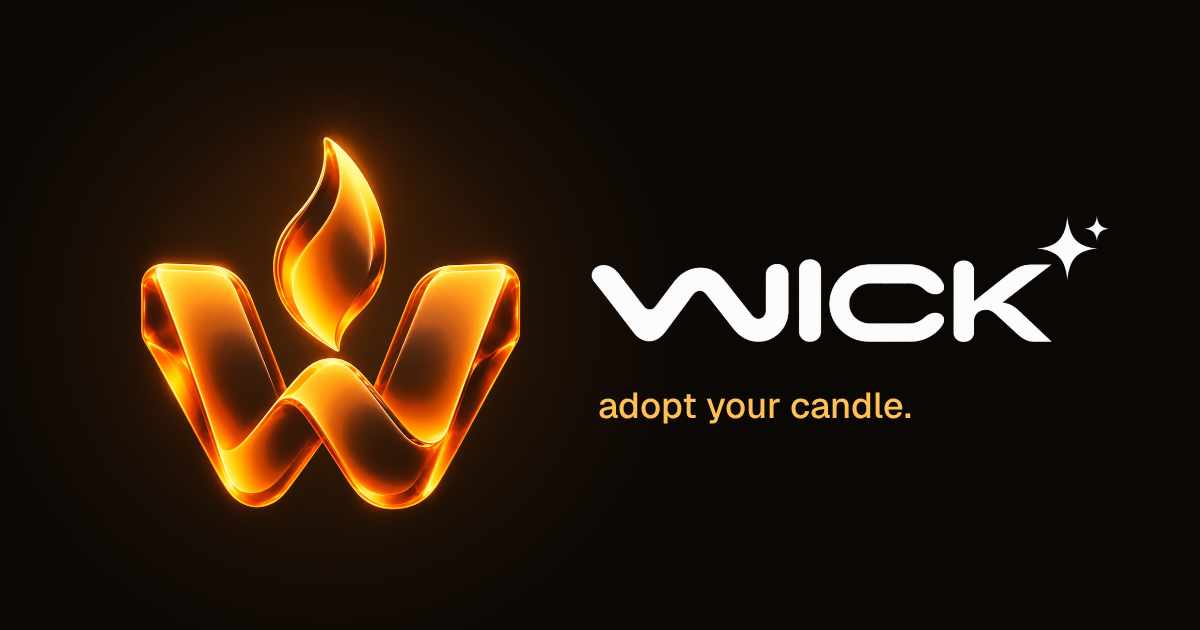
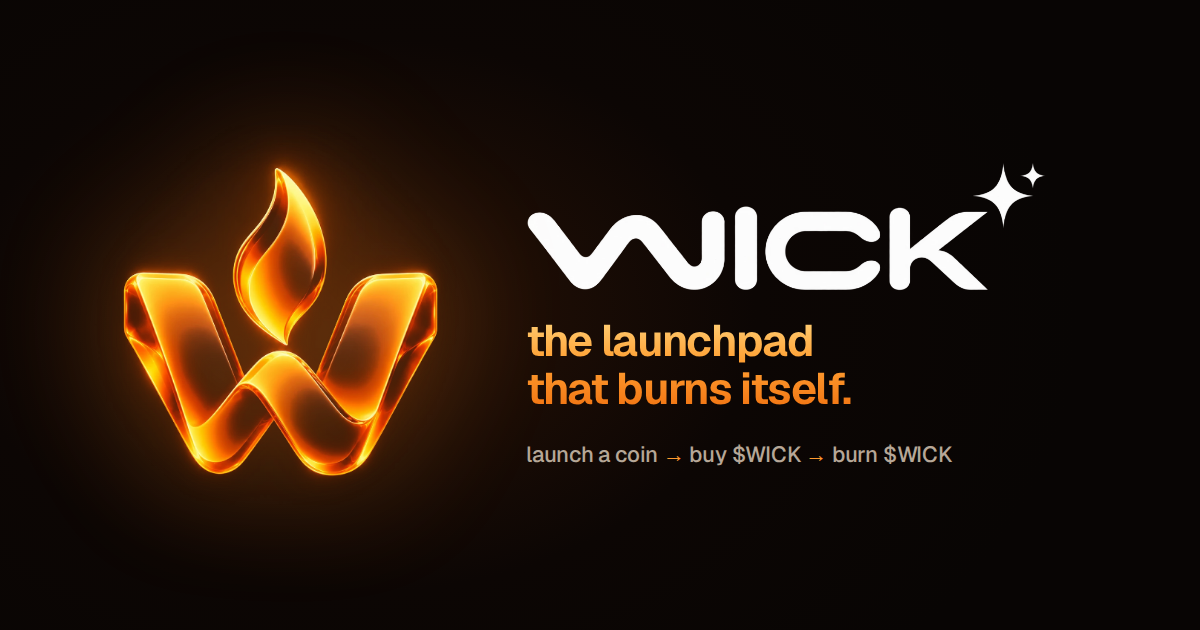
Announce the official $WICK launch in Telegram, new link preview image
- lib/announce.js: the cron watches the dev wallet (DEPLOYER_WALLET,
  7ZMMe1…eLANN by default). As soon as it creates a coin with the $WICK
  ticker on pump.fun (create or create_v2, read from the confirmed
  transaction), the official message ("$WICK is live. the only CA: …")
  goes to the channel with Buy / Chart / site buttons and is pinned.
  Once, ever; it runs first in the cron, so it lands within a minute.
  With TOKEN_MINT already set, that address is announced instead.
- The admin page shows the watch and, once posted, the announced CA
- New link preview image (X, Telegram): "the launchpad that burns
  itself." instead of "adopt your candle."

Claude-Session: https://claude.ai/code/session_01TwTxr1NmwTvLVV7gv9auPC

Changed region(s): [[0.0925, 0.181, 0.925, 0.8143], [0.4317, 0.6937, 0.8017, 0.754]]

diff --git a/lib/announce.js b/lib/announce.js
@@ -1,0 +1,143 @@
+// L'annonce du lancement officiel de $WICK, dans le canal Telegram.
+//
+// Le cron surveille, chaque minute, le wallet qui va lancer $WICK (le « dev wallet »,
+// DEPLOYER_WALLET, ou CONFIG.launch.deployer). Dès qu'il crée sur pump.fun un coin dont le ticker
+// est celui de $WICK (TOKEN_TICKER, « WICK »), le message officiel part dans le canal avec
+// l'adresse (le CA), et il est épinglé. Une seule fois, pour toujours.
+//
+// Si TOKEN_MINT est réglé avant (ou si la détection ratait), c'est cette adresse qui est annoncée.
+import { CONFIG } from './config.js';
+import { fromBase58, rpc } from './solana.js';
+import { getSetting, setSetting } from './settings.js';
+import { telegramReady } from './telegram.js';
+
+const CREATE = [24, 30, 200, 40, 5, 28, 7, 119];
+const CREATE_V2 = [214, 144, 76, 236, 95, 139, 49, 180];
+
+// Les instructions create / create_v2 de pump.fun commencent par : nom, ticker, uri (des
+// chaînes Borsh : longueur sur 4 octets, puis le texte).
+export function readCreate(data) {
+  if (!data || data.length < 8 + 12) return null;
+  const disc = [...data.subarray(0, 8)];
+  if (!disc.every((b, i) => b === CREATE[i]) && !disc.every((b, i) => b === CREATE_V2[i])) return null;
+  const view = new DataView(data.buffer, data.byteOffset, data.byteLength);
+  const text = new TextDecoder();
+  let at = 8;
+  const str = () => {
+    if (at + 4 > data.length) throw new Error('truncated');
+    const n = view.getUint32(at, true);
+    if (n > 400 || at + 4 + n > data.length) throw new Error('bad_string');
+    const s = text.decode(data.subarray(at + 4, at + 4 + n));
+    at += 4 + n;
+    return s;
+  };
+  try {
+    return { name: str(), symbol: str(), uri: str() };
+  } catch {
+    return null;
+  }
+}
+
+// Dans une transaction confirmée (getTransaction, encodage json) : le coin créé sur pump.fun par
+// `wallet` (payeur et signataire), s'il en a un. Renvoie { mint, name, symbol } ou null.
+export function launchIn(res, wallet) {
+  const msg = res?.transaction?.message;
+  if (!msg || res.meta?.err) return null;
+  const keys = (msg.accountKeys || []).map((k) => (typeof k === 'string' ? k : k.pubkey));
+  if (keys[0] !== wallet) return null;
+  for (const ix of msg.instructions || []) {
+    if (keys[ix.programIdIndex] !== CONFIG.pumpProgram) continue;
+    let data;
+    try { data = fromBase58(ix.data); } catch { continue; }
+    const coin = readCreate(data);
+    if (coin) return { mint: keys[ix.accounts[0]], name: coin.name, symbol: coin.symbol };
+  }
+  return null;
+}
+
+export function deployer(env) {
+  return env.DEPLOYER_WALLET || CONFIG.launch.deployer || null;
+}
+
+// Le message officiel (le même que le premier post X).
+export function announceText(mint, { ticker = 'WICK', site = 'https://trywick.fun' } = {}) {
+  return [
+    `$${ticker} is live. the only CA:`,
+    '',
+    `<code>${mint}</code>`,
+    '',
+    `every coin launched on ${ticker} lights the same flame.`,
+    `launch a coin → generate ignition fees → buy $${ticker} → burn $${ticker}`,
+    '',
+    `the more ${ticker} is used, the more of its own supply disappears.`,
+    '',
+    'the launchpad that burns itself.',
+    `${site.replace(/\/?$/, '/')}`,
+  ].join('\n');
+}
+
+async function tg(env, method, body) {
+  const res = await fetch(`https://api.telegram.org/bot${env.TELEGRAM_BOT_TOKEN}/${method}`, {
+    method: 'POST',
+    headers: { 'content-type': 'application/json' },
+    body: JSON.stringify({ chat_id: env.TELEGRAM_CHAT_ID, ...body }),
+  });
+  const data = await res.json().catch(() => null);
+  if (!data?.ok) throw new Error(`telegram_${method}: ${data?.description || res.status}`);
+  return data.result;
+}
+
+// Les nouvelles transactions du dev wallet (les plus anciennes d'abord) : y a-t-il le lancement ?
+async function detect(env, wallet, ticker) {
+  const last = await getSetting(env.DB, 'launch.lastSig');
+  const sigs = await rpc(env, 'getSignaturesForAddress', [wallet, { limit: 25, commitment: 'confirmed', ...(last ? { until: last } : {}) }]);
+  if (!sigs?.length) return null;
+  for (const s of [...sigs].reverse()) {
+    if (s.err) continue;
+    const res = await rpc(env, 'getTransaction', [s.signature, { encoding: 'json', commitment: 'confirmed', maxSupportedTransactionVersion: 0 }]);
+    const coin = launchIn(res, wallet);
+    if (coin && coin.symbol.trim().replace(/^\$/, '').toUpperCase() === ticker.toUpperCase()) {
+      return { ...coin, sig: s.signature };
+    }
+  }
+  await setSetting(env.DB, 'launch.lastSig', sigs[0].signature);
+  return null;
+}
+
+// Une passe du cron. Renvoie le mint annoncé, ou null.
+export async function runAnnounce(env, now) {
+  if (!telegramReady(env)) return null;
+  const db = env.DB;
+  if (await getSetting(db, 'launch.announced')) return null;
+  const ticker = env.TOKEN_TICKER || 'WICK';
+  let launch = env.TOKEN_MINT ? { mint: env.TOKEN_MINT, sig: null } : null;
+  const wallet = deployer(env);
+  if (!launch && wallet) launch = await detect(env, wallet, ticker);
+  if (!launch) return null;
+
+  // Réservé avant d'envoyer : jamais deux annonces, même si deux crons se chevauchent.
+  const claimed = await db.prepare("INSERT OR IGNORE INTO settings (k, v) VALUES ('launch.announced', ?)")
+    .bind(JSON.stringify({ mint: launch.mint, sig: launch.sig, at: now })).run();
+  if (claimed.meta?.changes !== 1) return null;
+  const site = env.SITE_URL || 'https://trywick.fun';
+  try {
+    const msg = await tg(env, 'sendMessage', {
+      parse_mode: 'HTML',
+      text: announceText(launch.mint, { ticker, site }),
+      link_preview_options: { url: site, prefer_large_media: true, show_above_text: false },
+      reply_markup: {
+        inline_keyboard: [
+          [{ text: `💊 Buy $${ticker}`, url: `https://pump.fun/coin/${launch.mint}` }, { text: '📊 Chart', url: `https://dexscreener.com/solana/${launch.mint}` }],
+          [{ text: '🕯 trywick.fun', url: site }],
+        ],
+      },
+    });
+    // Épinglé, pour que l'adresse officielle reste en haut du canal (si le bot en a le droit).
+    await tg(env, 'pinChatMessage', { message_id: msg.message_id, disable_notification: false }).catch((err) => console.log('telegram pin', err.message));
+  } catch (err) {
+    console.error('telegram announce', err.message);
+    await db.prepare("DELETE FROM settings WHERE k = 'launch.announced'").run();   // on retentera à la minute suivante
+    return null;
+  }
+  return launch.mint;
+}

diff --git a/test/announce.test.js b/test/announce.test.js
@@ -1,0 +1,104 @@
+import assert from 'node:assert/strict';
+import { afterEach, test } from 'node:test';
+import { Keypair, PublicKey, TransactionInstruction, TransactionMessage, VersionedTransaction } from '@solana/web3.js';
+import { announceText, launchIn, readCreate, runAnnounce } from '../lib/announce.js';
+import { CONFIG } from '../lib/config.js';
+import { ensureSchema } from '../lib/schema.js';
+import { getSetting } from '../lib/settings.js';
+import { base58, readTransaction } from '../lib/solana.js';
+import { fakeD1 } from './helpers/d1.js';
+
+const realFetch = globalThis.fetch;
+afterEach(() => { globalThis.fetch = realFetch; });
+
+function borsh(...strings) {
+  const parts = strings.map((s) => { const b = Buffer.from(s); const n = Buffer.alloc(4); n.writeUInt32LE(b.length); return Buffer.concat([n, b]); });
+  return Buffer.concat(parts);
+}
+const CREATE_V2 = Buffer.from([214, 144, 76, 236, 95, 139, 49, 180]);
+
+// Une transaction confirmée de création pump.fun, comme la renvoie getTransaction (json).
+function createTx(payer, mint, symbol, { program = CONFIG.pumpProgram } = {}) {
+  const data = Buffer.concat([CREATE_V2, borsh('Wick', symbol, 'https://ipfs/x'), payer.toBuffer(), Buffer.from([0, 0, 0, 0])]);
+  const ix = new TransactionInstruction({
+    programId: new PublicKey(program),
+    keys: [{ pubkey: mint, isSigner: true, isWritable: true }, { pubkey: payer, isSigner: true, isWritable: true }],
+    data,
+  });
+  const bytes = new VersionedTransaction(new TransactionMessage({ payerKey: payer, recentBlockhash: Keypair.generate().publicKey.toBase58(), instructions: [ix] }).compileToV0Message()).serialize();
+  const tx = readTransaction(bytes);
+  return {
+    transaction: { message: { accountKeys: tx.keys, instructions: tx.instructions.map((i) => ({ programIdIndex: i.program, accounts: i.accounts, data: base58(i.data) })) } },
+    meta: { err: null },
+  };
+}
+
+test('reads the name and ticker of a pump.fun create', () => {
+  assert.deepEqual(readCreate(Buffer.concat([CREATE_V2, borsh('Wick', 'WICK', 'u')])), { name: 'Wick', symbol: 'WICK', uri: 'u' });
+  assert.equal(readCreate(Buffer.concat([Buffer.alloc(8), borsh('a', 'b', 'c')])), null);
+  assert.equal(readCreate(Buffer.from([214, 144, 76, 236, 95, 139, 49, 180, 255, 255, 255, 255])), null);
+});
+
+test('finds the coin a wallet created, only its own and only on pump.fun', () => {
+  const dev = Keypair.generate().publicKey, mint = Keypair.generate().publicKey;
+  assert.deepEqual(launchIn(createTx(dev, mint, 'WICK'), dev.toBase58()), { mint: mint.toBase58(), name: 'Wick', symbol: 'WICK' });
+  assert.equal(launchIn(createTx(dev, mint, 'WICK'), Keypair.generate().publicKey.toBase58()), null);
+  assert.equal(launchIn(createTx(dev, mint, 'WICK', { program: Keypair.generate().publicKey.toBase58() }), dev.toBase58()), null);
+  assert.equal(launchIn({ ...createTx(dev, mint, 'WICK'), meta: { err: { x: 1 } } }, dev.toBase58()), null);
+});
+
+test('the official message is the one of the first X post, with the CA', () => {
+  const t = announceText('MintAddr111', { ticker: 'WICK', site: 'https://trywick.fun' });
+  assert.equal(t, '$WICK is live. the only CA:\n\n<code>MintAddr111</code>\n\nevery coin launched on WICK lights the same flame.\n'
+    + 'launch a coin → generate ignition fees → buy $WICK → burn $WICK\n\nthe more WICK is used, the more of its own supply disappears.\n\n'
+    + 'the launchpad that burns itself.\nhttps://trywick.fun/');
+});
+
+test('announces the launch once, as soon as the dev wallet creates $WICK, and pins it', async () => {
+  const dev = Keypair.generate().publicKey, wick = Keypair.generate().publicKey, test1 = Keypair.generate().publicKey;
+  const db = fakeD1();
+  await ensureSchema(db);
+  const env = { DB: db, TELEGRAM_BOT_TOKEN: 'T', TELEGRAM_CHAT_ID: '@wick', DEPLOYER_WALLET: dev.toBase58(), SOLANA_RPC: 'https://rpc' };
+  const history = [];            // les signatures du wallet, la plus récente d'abord
+  const txs = new Map();
+  const sent = [];
+  globalThis.fetch = async (url, init) => {
+    const body = JSON.parse(init.body);
+    if (String(url).startsWith('https://api.telegram.org/')) {
+      sent.push({ method: String(url).split('/').pop(), body });
+      return Response.json({ ok: true, result: { message_id: 9 } });
+    }
+    const ok = (result) => Response.json({ jsonrpc: '2.0', id: 1, result });
+    if (body.method === 'getSignaturesForAddress') {
+      const until = body.params[1].until;
+      const i = until ? history.findIndex((s) => s.signature === until) : history.length;
+      return ok(history.slice(0, i < 0 ? history.length : i));
+    }
+    if (body.method === 'getTransaction') return ok(txs.get(body.params[0]));
+    throw new Error(body.method);
+  };
+  const add = (sig, tx) => { history.unshift({ signature: sig, err: null }); txs.set(sig, tx); };
+
+  assert.equal(await runAnnounce(env, 1), null);                       // rien encore
+  add('s1', createTx(dev, test1, 'TEST'));                               // un autre coin du dev : ignoré
+  assert.equal(await runAnnounce(env, 2), null);
+  add('s2', createTx(dev, wick, 'WICK'));                                // le vrai lancement
+  assert.equal(await runAnnounce(env, 3), wick.toBase58());
+  assert.equal(sent[0].method, 'sendMessage');
+  assert.match(sent[0].body.text, new RegExp(`<code>${wick.toBase58()}</code>`));
+  assert.equal(sent[0].body.reply_markup.inline_keyboard[0][0].url, `https://pump.fun/coin/${wick.toBase58()}`);
+  assert.equal(sent[1].method, 'pinChatMessage');
+  assert.equal((await getSetting(db, 'launch.announced')).mint, wick.toBase58());
+  assert.equal(await runAnnounce(env, 4), null);                         // une seule fois
+  assert.equal(sent.length, 2);
+});
+
+test('with TOKEN_MINT already set, that address is announced', async () => {
+  const db = fakeD1();
+  await ensureSchema(db);
+  const texts = [];
+  globalThis.fetch = async (url, init) => { texts.push(JSON.parse(init.body).text); return Response.json({ ok: true, result: { message_id: 1 } }); };
+  assert.equal(await runAnnounce({ DB: db, TELEGRAM_BOT_TOKEN: 'T', TELEGRAM_CHAT_ID: '@w', TOKEN_MINT: 'SetMint' }, 1), 'SetMint');
+  assert.match(texts[0], /<code>SetMint<\/code>/);
+  assert.equal(await runAnnounce({ DB: db }, 2), null);                   // sans bot : rien
+});

diff --git a/src/api/admin.js b/src/api/admin.js
@@ -7,6 +7,7 @@ import { CONFIG, cycleTiming } from '../../lib/config.js';
 import { publicCycle, tickCycle } from '../../lib/cycles.js';
 import { json } from '../../lib/http.js';
 import { ensureSchema } from '../../lib/schema.js';
+import { deployer } from '../../lib/announce.js';
 import { shareTotals } from '../../lib/sharing.js';
 import { buybackPaused, getSetting, setSetting } from '../../lib/settings.js';
 import { getBalance, tokenHolding } from '../../lib/solana.js';
@@ -65,7 +66,7 @@ export const adminStatus = guarded(async ({ env }) => {
   const now = Date.now();
   const timing = cycleTiming(env);
   const open = await tickCycle(env, now);
-  const [wallet, paused, lastRun, lastError, { results: cycles }, pending, { results: burns }, fee, sharedFee, shares] = await Promise.all([
+  const [wallet, paused, lastRun, lastError, { results: cycles }, pending, { results: burns }, fee, sharedFee, shares, announced] = await Promise.all([
     walletInfo(env),
     buybackPaused(db),
     getSetting(db, 'cron.lastRun'),
@@ -82,6 +83,7 @@ export const adminStatus = guarded(async ({ env }) => {
     launchFee(env),
     launchFee(env, { shared: true }),
     shareTotals(db),
+    getSetting(db, 'launch.announced'),
   ]);
   return json({
     now,
@@ -98,6 +100,8 @@ export const adminStatus = guarded(async ({ env }) => {
       sharedFeeSol: sharedFee ? sharedFee.lamports / 1e9 : null,
       shareBps: sharedFee?.bps ?? 0,
       telegram: telegramReady(env),
+      deployer: deployer(env),
+      announced,
     },
     wallet,
     shares,

diff --git a/public/admin.html b/public/admin.html
@@ -164,6 +164,7 @@
         <dt>Collect creator fees</dt><dd>${c.collectFees ? 'on' : 'off'}</dd>
         <dt>Ignition Fee (burned)</dt><dd>${c.launchFeeSol ? `${num(c.launchFeeSol)} SOL` : '<span class="muted">off (buyback not live)</span>'}</dd>
         <dt>Creator fee sharing</dt><dd>${c.shareBps ? `${num(c.shareBps / 100)}% to WICK · Ignition Fee ${num(c.sharedFeeSol)} SOL with sharing · ${num(d.shares?.sharedSol ?? 0)} SOL received from ${d.shares?.sharingCoins ?? 0} coins` : '<span class="muted">off (buyback not live)</span>'}</dd>
+        <dt>Launch announcement</dt><dd>${c.announced ? `posted · <span class="mono">${esc(c.announced.mint)}</span>` : c.telegram && c.deployer ? `watching the dev wallet <span class="mono">${esc(c.deployer.slice(0, 4))}…${esc(c.deployer.slice(-4))}</span>: posts in the channel within a minute of the $WICK launch` : '<span class="muted">off (needs the Telegram bot)</span>'}</dd>
         <dt>Telegram bot</dt><dd>${yes(c.telegram, 'on', 'off (TELEGRAM_BOT_TOKEN / TELEGRAM_CHAT_ID)', 'warn')}</dd>
         <dt>Candle</dt><dd>${num(c.cycleMinutes)} min · −${num(c.matchMinutes)} min per match</dd>`;
 

diff --git a/src/index.js b/src/index.js
@@ -11,6 +11,7 @@ import { runBuyback } from '../lib/buyback.js';
 import { tickCycle } from '../lib/cycles.js';
 import { checkMilestones } from '../lib/hall.js';
 import { refreshMarkets } from '../lib/markets.js';
+import { runAnnounce } from '../lib/announce.js';
 import { runShares } from '../lib/sharing.js';
 import { runTelegram } from '../lib/telegram.js';
 import { sweep } from '../lib/matches.js';
@@ -66,6 +67,13 @@ export default {
   async scheduled(event, env) {
     await ensureSchema(env.DB);
     const now = Date.now();
+    // En premier : l'annonce du lancement officiel de $WICK (une seule fois), le plus vite possible.
+    try {
+      const mint = await runAnnounce(env, now);
+      if (mint) console.log('launch announced', mint);
+    } catch (err) {
+      console.error('announce', err?.message ?? err);
+    }
     await sweep(env, now);
     const open = await tickCycle(env, now);
     const step = await recordRun(env, () => runBuyback(env, Date.now()));

diff --git a/lib/config.js b/lib/config.js
@@ -53,6 +53,13 @@ export const CONFIG = {
     microLamports: 50_000,
   },
 
+  // Le lancement officiel de $WICK : le wallet qui va le créer (le « dev wallet », adresse
+  // publique). Dès qu'il lance le coin au ticker $WICK sur pump.fun, l'annonce part dans le canal
+  // Telegram (lib/announce.js). DEPLOYER_WALLET pour changer.
+  launch: {
+    deployer: '7ZMMe1Zhtspzq84w3Tf4iVYMd6jjuPxxRa1zz3eeLANN',
+  },
+
   // Le « dev buy » : ce que le créateur achète de son propre coin au lancement, en SOL.
   maxDevBuySol: 5,
 

diff --git a/README.md b/README.md
@@ -36,6 +36,9 @@ feeds the flame. Every flame burns $WICK: launch a coin → Ignition Fee → buy
   Ignition Fee and socials, updated with the burn transaction once its fee is burned; every buyback & burn (SOL
   spent with its dollar value, $WICK burned, supply left, Buy/Burn TX); every fully melted candle with its season
   stats; and a daily report (launches, burns, hottest coins, pyromaniac of the day).
+- **The $WICK launch announcement**: the cron watches the dev wallet; within a minute of it creating the coin with the
+  $WICK ticker on pump.fun, the official message ("$WICK is live. the only CA: …") is posted in the channel and pinned,
+  once (`lib/announce.js`).
 
 **Demo mode**: add `?demo` to the address for a simulated, sped-up world (90-second breaths, tiny candles, fake
 burns, a fake launch with no wallet), running entirely in your browser, with a permanent "Demo" banner.
@@ -193,6 +196,7 @@ Locally, `CYCLE_MINUTES=1` in `.dev.vars` makes the breath (buyback countdown) 1
    | `HOLDER_MIN` | minimum $WICK held for a golden flame (default: any amount) |
    | `TELEGRAM_BOT_TOKEN` (secret), `TELEGRAM_CHAT_ID` | the bot (from @BotFather) and the channel (`@yourchannel` or its numeric id); the bot must be an admin of the channel |
    | `SITE_URL` | the link in Telegram posts (default `https://trywick.fun`) |
+   | `DEPLOYER_WALLET` | the dev wallet that launches $WICK (default: the one in `lib/config.js`). The bot announces the launch in the channel within a minute and pins it |
    | `TELEGRAM_DAILY_HOUR` | hour (UTC) of the daily report in the channel (default `18`, `off` to turn it off) |
    | `TOKEN_TICKER` | defaults to `WICK` |
    | `X_URL` | the X link in the header |
